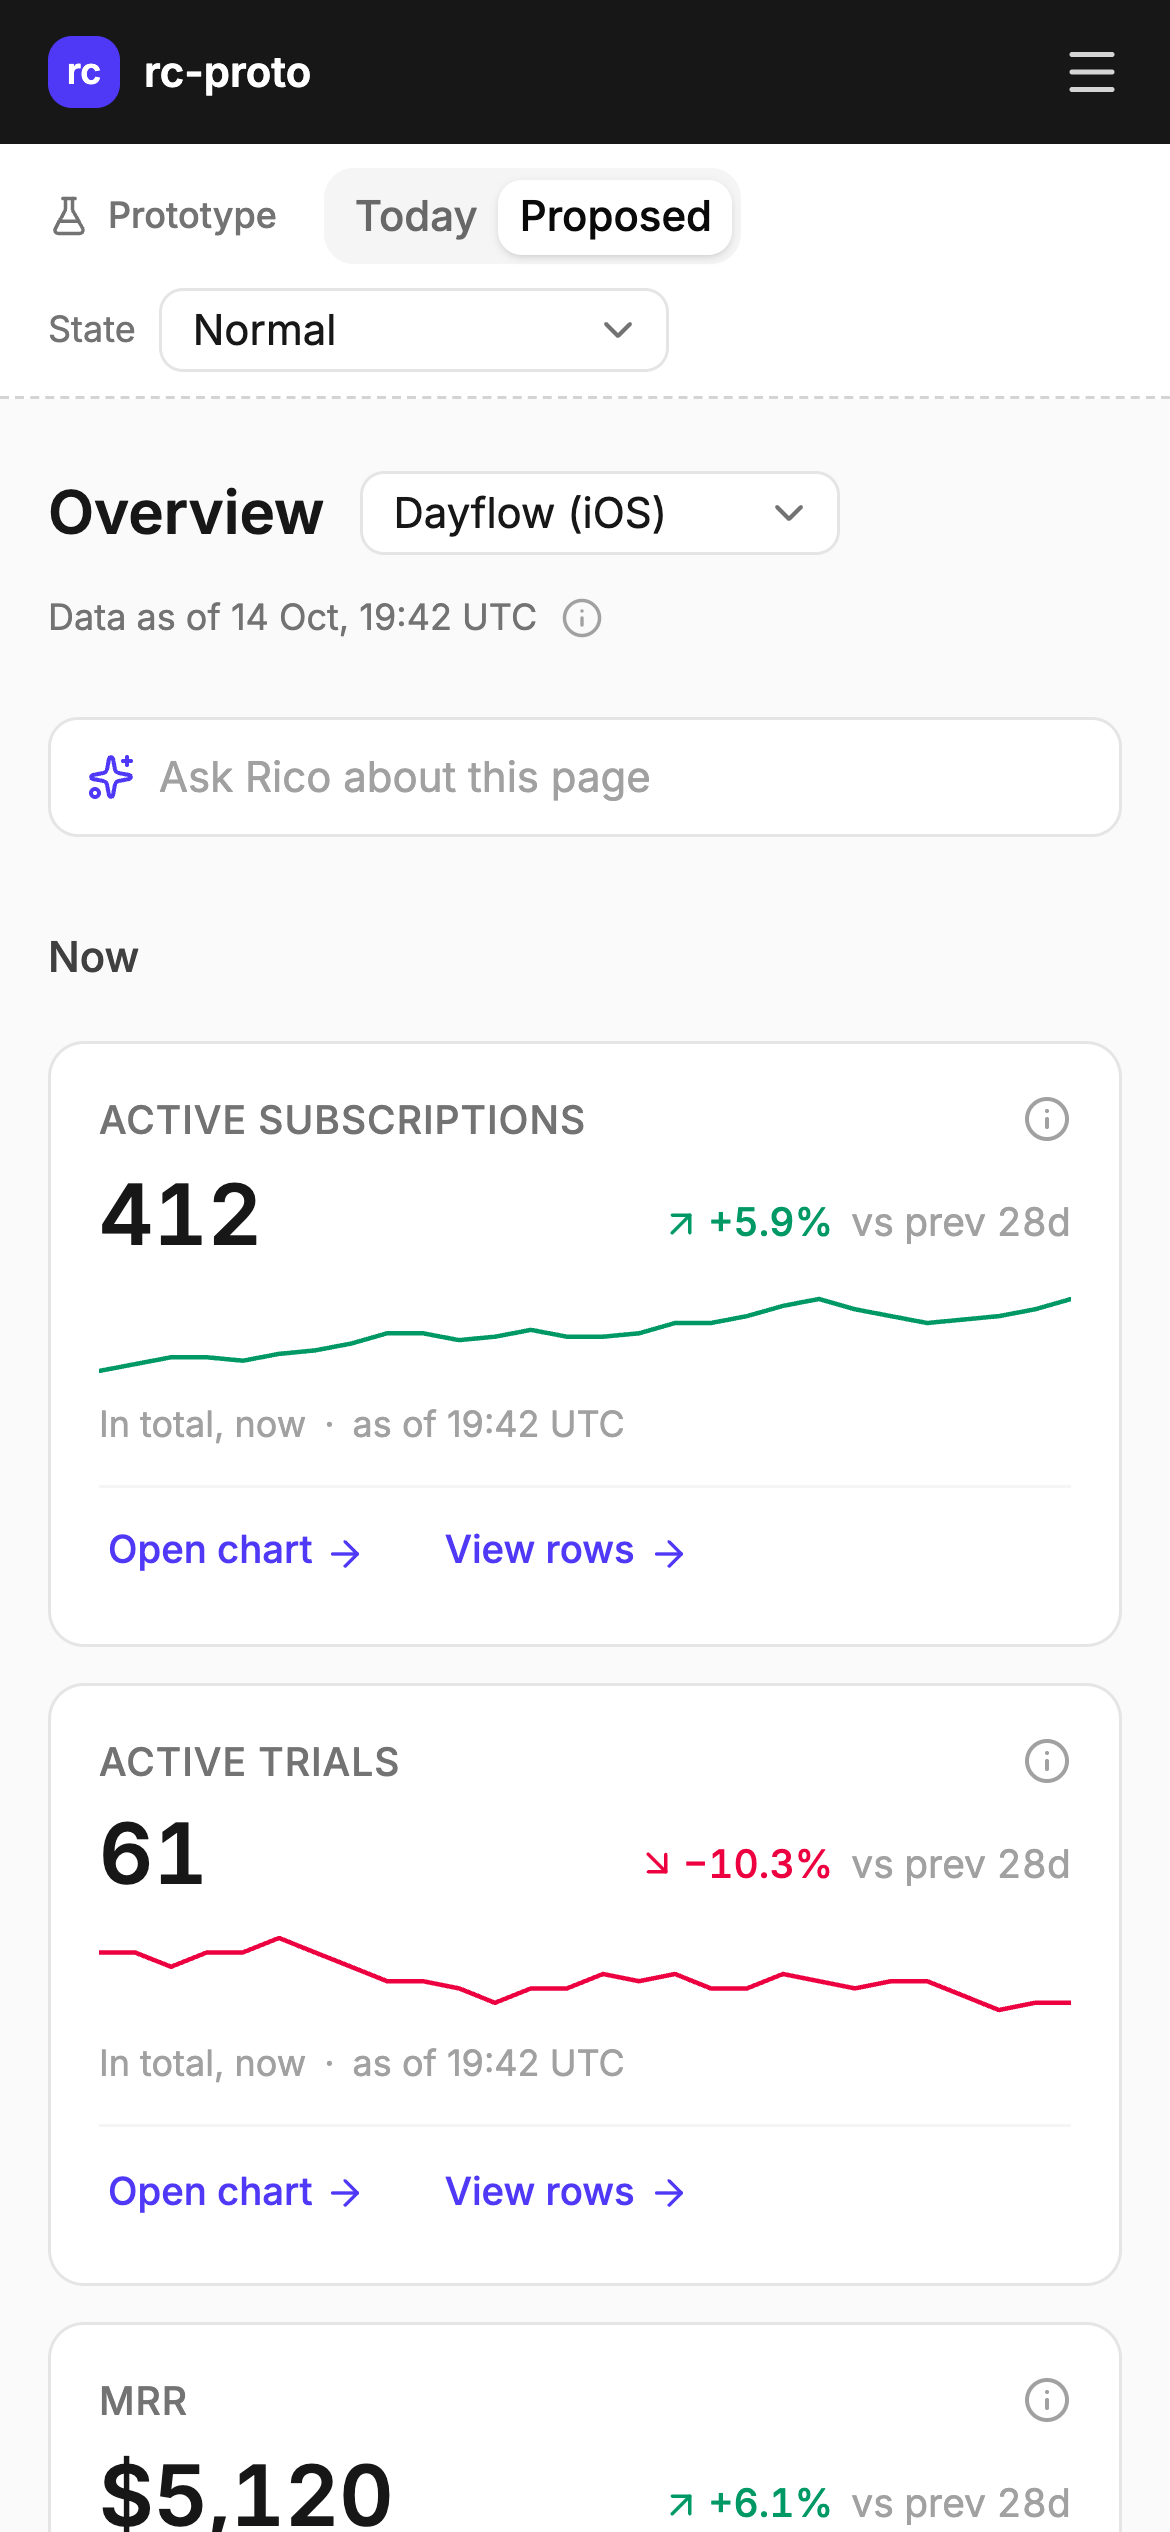
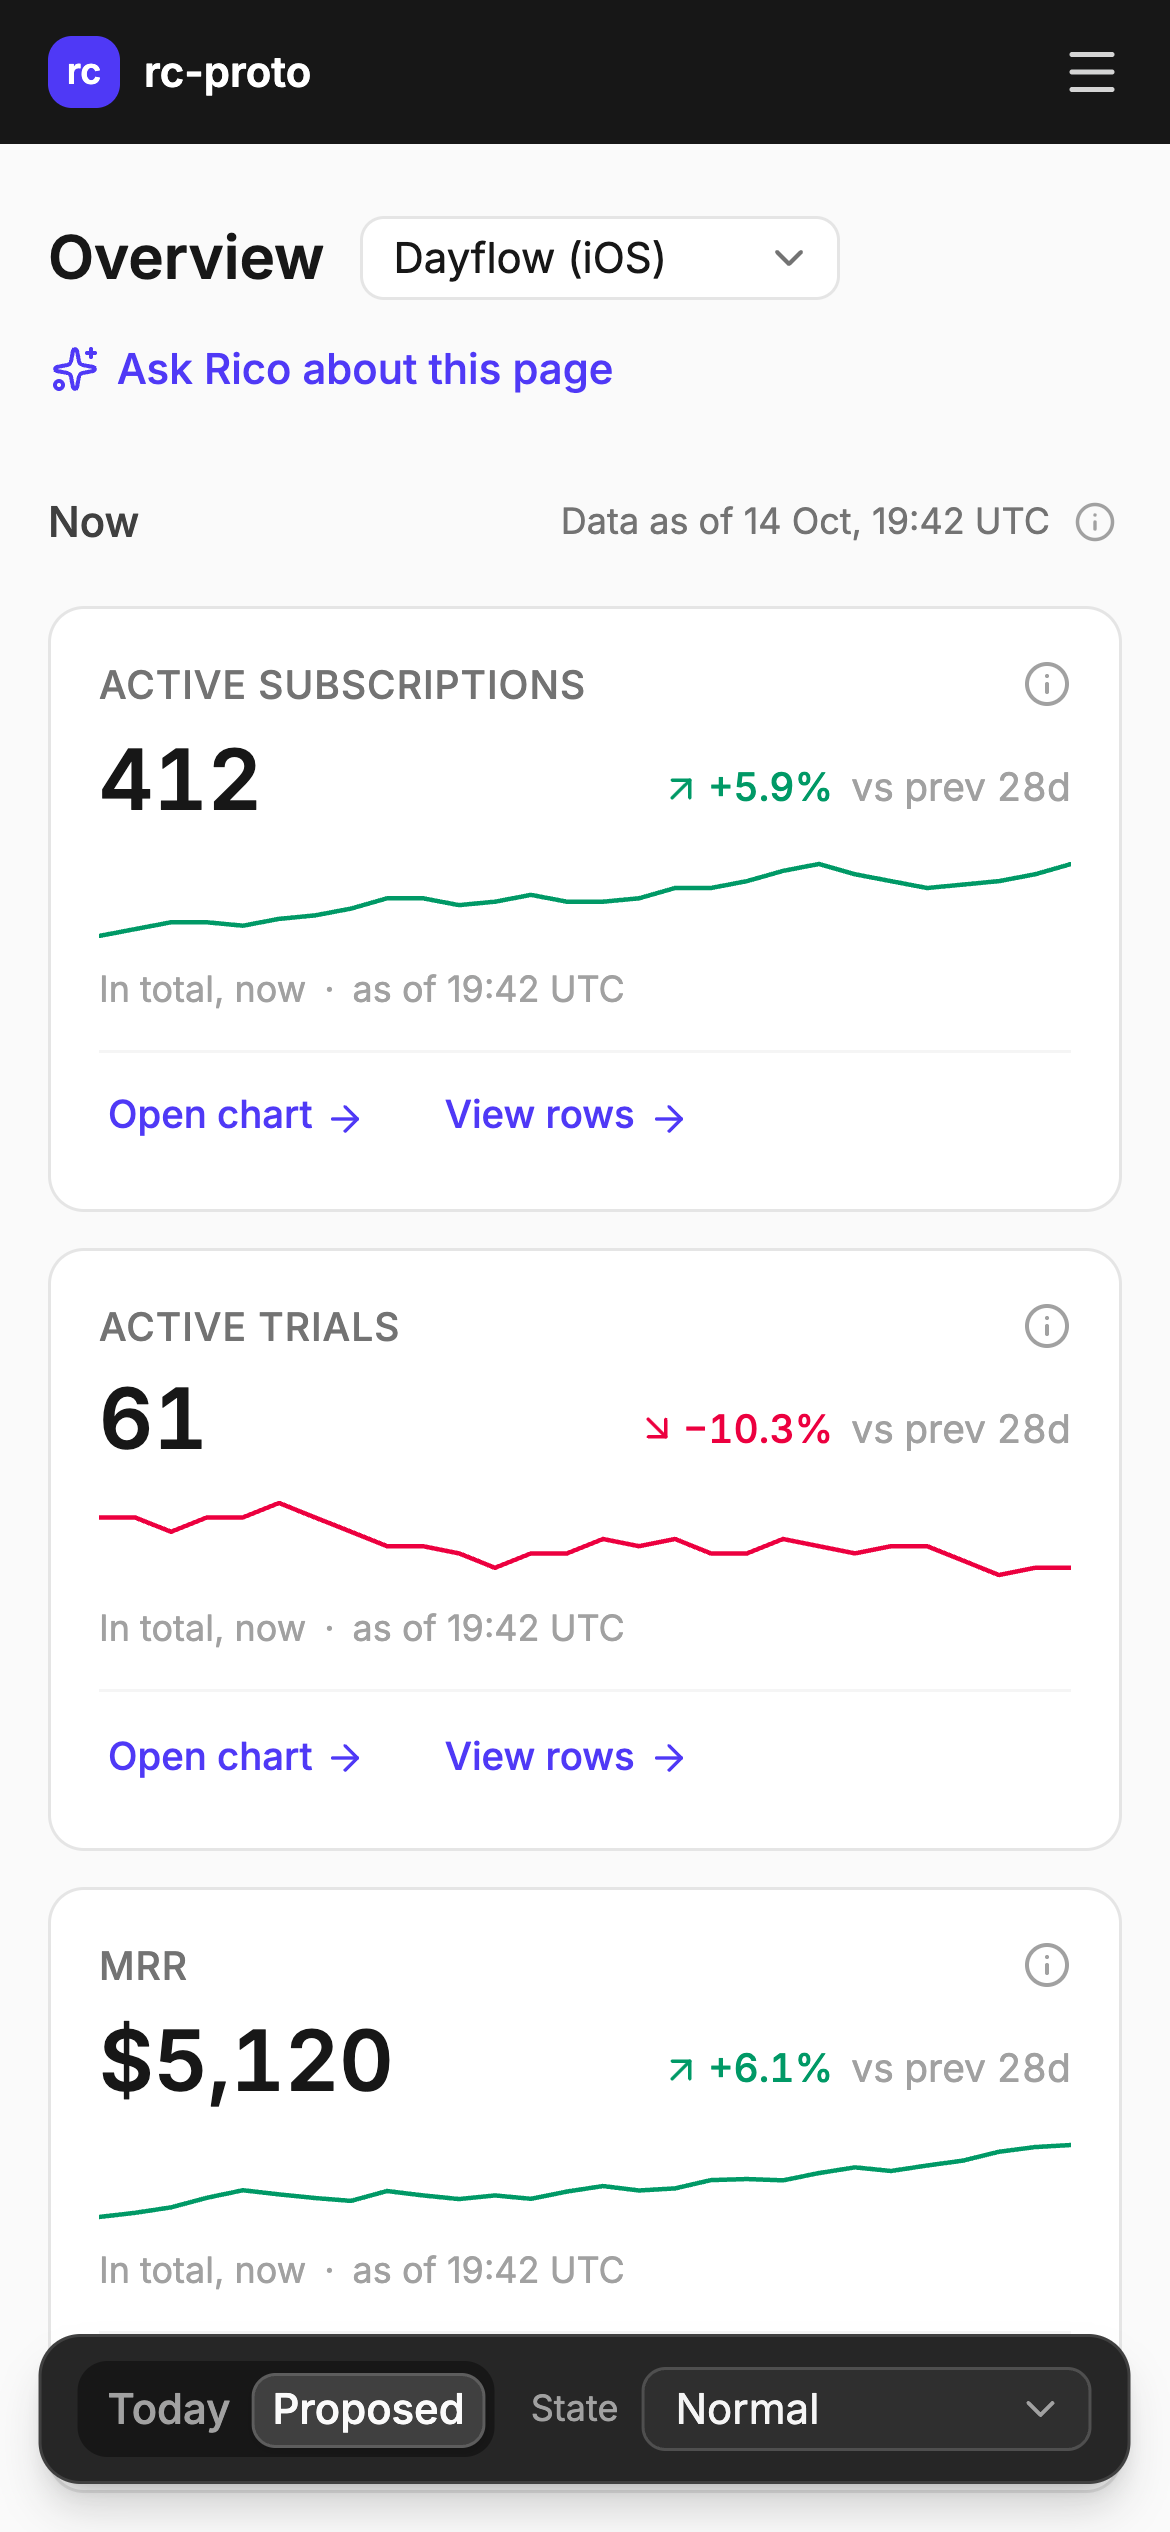
Ask Rico as a header link, data cutoff on the Now row, prototype controls as a floating dock

diff --git a/src/App.tsx b/src/App.tsx
@@ -1,5 +1,6 @@
 import { useState } from "react";
-import { FlaskConical, Info } from "lucide-react";
+import { FlaskConical, Info, Sparkles } from "lucide-react";
+import { Button } from "@/components/ui/button";
 import normalData from "@/data/normal.json";
 import lowVolumeData from "@/data/low_volume.json";
 import newProjectData from "@/data/new_project.json";
@@ -12,7 +13,7 @@ import { Tooltip, TooltipContent, TooltipProvider, TooltipTrigger } from "@/comp
 import { Sidebar, TopBar } from "@/components/Shell";
 import { MetricCard, PlainCard } from "@/components/MetricCard";
 import { DesignRules, RecentTransactions, RicoBar, SectionTitle, SetupChecklist, WhatChanged } from "@/components/Sections";
-import { RicoDrawer, RicoInput, SetupDrawer } from "@/components/Drawers";
+import { RicoDrawer, SetupDrawer } from "@/components/Drawers";
 import { ChartModal, ExplainerModal, NotOnPageModal, RowsModal } from "@/components/Modals";
 import { dateTimeUtc, periodLabel } from "@/lib/format";
 import type { CardData, ChartTarget, Overview, Preset, StateKey, View } from "@/types";
@@ -73,27 +74,7 @@ export default function App() {
         <div className="flex min-w-0 flex-1 flex-col">
           <TopBar />
 
-          {/* Prototype controls: not part of the product UI. */}
-          <div className="flex flex-wrap items-center gap-x-4 gap-y-2 border-b border-dashed border-neutral-300 bg-white px-4 py-2 md:px-8">
-            <span className="flex items-center gap-1.5 text-xs font-medium text-neutral-500"><FlaskConical className="size-3.5" /> Prototype</span>
-            <Tabs value={view} onValueChange={(v) => setView(v as View)}>
-              <TabsList>
-                <TabsTrigger value="today">Today</TabsTrigger>
-                <TabsTrigger value="proposed">Proposed</TabsTrigger>
-              </TabsList>
-            </Tabs>
-            <div className="flex items-center gap-2">
-              <span className="text-xs text-neutral-500">State</span>
-              <Select items={STATES} value={stateKey} onValueChange={(v) => setStateKey(v as StateKey)}>
-                <SelectTrigger size="sm" className="w-[170px] bg-white"><SelectValue /></SelectTrigger>
-                <SelectContent>
-                  {Object.entries(STATES).map(([k, label]) => <SelectItem key={k} value={k}>{label}</SelectItem>)}
-                </SelectContent>
-              </Select>
-            </div>
-          </div>
-
-          <main className="mx-auto flex w-full max-w-[1200px] flex-col gap-6 px-4 py-6 md:px-8">
+          <main className="mx-auto flex w-full max-w-[1200px] flex-col gap-6 px-4 pt-6 pb-24 md:px-8">
             <header className="flex flex-wrap items-center justify-between gap-3">
               <div className="flex flex-wrap items-center gap-3">
                 <h1 className="text-xl font-semibold">Overview</h1>
@@ -111,17 +92,9 @@ export default function App() {
                 </Select>
               </div>
               {view === "proposed" && (
-                <div className="flex items-center gap-1.5 text-xs text-neutral-500">
-                  Data as of {dateTimeUtc(data.as_of)}
-                  <Popover>
-                    <PopoverTrigger aria-label="About the data cutoff" className="rounded p-0.5 text-neutral-400 hover:text-neutral-700">
-                      <Info className="size-3.5" />
-                    </PopoverTrigger>
-                    <PopoverContent align="end" className="w-64 p-3 text-xs text-neutral-700">
-                      All cards on this page use this cutoff. Cached cards show their own time.
-                    </PopoverContent>
-                  </Popover>
-                </div>
+                <Button variant="link" className="h-auto gap-1.5 p-0 text-indigo-600" onClick={() => setRicoOpen(true)}>
+                  <Sparkles /> Ask Rico about this page
+                </Button>
               )}
             </header>
 
@@ -137,19 +110,30 @@ export default function App() {
               </>
             ) : (
               <>
-                <RicoInput value={ricoDraft} onChange={setRicoDraft} onOpen={() => setRicoOpen(true)} />
-
                 {data.setup && <SetupChecklist steps={setupSteps} onOpenStep={(i) => { setSetupIndex(i); setSetupOpen(true); }} />}
 
                 <section className="flex flex-col gap-3">
-                  <div className="flex h-8 items-center justify-between gap-3">
+                  <div className="flex min-h-8 items-center justify-between gap-3">
                     <SectionTitle>Now</SectionTitle>
-                    {sample && (
-                      <label className="flex items-center gap-2 text-xs text-neutral-600">
-                        <Switch checked={showSample} onCheckedChange={setShowSample} />
-                        Show sample data
-                      </label>
-                    )}
+                    <div className="flex flex-wrap items-center justify-end gap-x-4 gap-y-1">
+                      {sample && (
+                        <label className="flex items-center gap-2 text-xs text-neutral-600">
+                          <Switch checked={showSample} onCheckedChange={setShowSample} />
+                          Show sample data
+                        </label>
+                      )}
+                      <div className="flex items-center gap-1.5 text-xs text-neutral-500">
+                        Data as of {dateTimeUtc(data.as_of)}
+                        <Popover>
+                          <PopoverTrigger aria-label="About the data cutoff" className="rounded p-0.5 text-neutral-400 hover:text-neutral-700">
+                            <Info className="size-3.5" />
+                          </PopoverTrigger>
+                          <PopoverContent align="end" className="w-64 p-3 text-xs text-neutral-700">
+                            All cards on this page use this cutoff. Cached cards show their own time.
+                          </PopoverContent>
+                        </Popover>
+                      </div>
+                    </div>
                   </div>
                   <div className="grid grid-cols-1 gap-3 md:grid-cols-3">{cardsFor("now")}</div>
                 </section>
@@ -180,6 +164,26 @@ export default function App() {
               </>
             )}
           </main>
+        </div>
+      </div>
+
+      {/* Prototype controls: not part of the product UI. A floating dock, dark tokens via .dark. */}
+      <div className="dark fixed bottom-4 left-1/2 z-40 flex -translate-x-1/2 items-center gap-3 rounded-xl border border-neutral-700 bg-neutral-800 px-3 py-2 text-neutral-100 shadow-lg shadow-neutral-900/20 md:left-[calc(50%+110px)]">
+        <span className="hidden items-center gap-1.5 text-xs font-medium text-neutral-400 sm:flex"><FlaskConical className="size-3.5" /> Prototype</span>
+        <Tabs value={view} onValueChange={(v) => setView(v as View)}>
+          <TabsList className="bg-neutral-900">
+            <TabsTrigger value="today" className="dark:data-active:bg-neutral-700">Today</TabsTrigger>
+            <TabsTrigger value="proposed" className="dark:data-active:bg-neutral-700">Proposed</TabsTrigger>
+          </TabsList>
+        </Tabs>
+        <div className="flex items-center gap-2">
+          <span className="text-xs text-neutral-400">State</span>
+          <Select items={STATES} value={stateKey} onValueChange={(v) => setStateKey(v as StateKey)}>
+            <SelectTrigger size="sm" className="w-[150px] sm:w-[170px]"><SelectValue /></SelectTrigger>
+            <SelectContent>
+              {Object.entries(STATES).map(([k, label]) => <SelectItem key={k} value={k}>{label}</SelectItem>)}
+            </SelectContent>
+          </Select>
         </div>
       </div>
 

diff --git a/src/components/Drawers.tsx b/src/components/Drawers.tsx
@@ -21,23 +21,6 @@ export function SideDrawer({
 
 /* ---------- Rico ---------- */
 
-export function RicoInput({ value, onChange, onOpen }: { value: string; onChange: (v: string) => void; onOpen: () => void }) {
-  return (
-    <div className="flex h-10 items-center gap-2 rounded-lg border border-neutral-200 bg-white px-3 focus-within:border-indigo-300">
-      <Sparkles className="size-4 shrink-0 text-indigo-600" />
-      <input
-        value={value}
-        onChange={(e) => onChange(e.target.value)}
-        onFocus={onOpen}
-        onClick={onOpen}
-        placeholder="Ask Rico about this page"
-        aria-label="Ask Rico about this page"
-        className="min-w-0 flex-1 bg-transparent text-sm text-neutral-900 outline-none placeholder:text-neutral-400"
-      />
-    </div>
-  );
-}
-
 export const RICO_CHIPS = ["Why did MRR go up?", "Is this number right?", "What should I look at today?"];
 
 type Message = { from: "me" | "rico"; text: string; chart?: { label: string; metric: string } };

diff --git a/README.md b/README.md
@@ -20,16 +20,17 @@ Push to `main` deploys to Netlify.
 
 ## What's in it
 
-- **Prototype bar** (dashed, above the page): Today / Proposed tabs and the State select
-  (Normal, Below volume gate, New project). State only swaps the JSON file.
-- **Proposed**: header with app selector and one "Data as of" cutoff; **Now** row
+- **Prototype dock** (dark, floating at the bottom): Today / Proposed tabs and the State
+  select (Normal, Below volume gate, New project). State only swaps the JSON file.
+- **Proposed**: header with app selector and an "Ask Rico about this page" link on the right;
+  **Now** row with the one "Data as of" cutoff on the right of its title
   (Active subscriptions, Active trials, MRR); **period** row (Revenue, New customers,
   Active customers) with the 7d / 28d / 90d picker; **What changed** strip (max 3, tagged
   Business or Definition / data); Recent transactions (collapsed); footer with the 3 design
   rules and "Not on this page, and why".
-- **Ask Rico** (round 2): one 40px input under the header, above Now, in every state. Click
-  or focus opens a 420px right drawer (full width on a phone) with the typed text carried
-  over, 3 prompt chips, and a mocked chat: replies after 600ms, keyed on "mrr", "trial",
+- **Ask Rico**: a text link in the header, in every state (round 3; round 2 had a 40px input
+  under the header). It opens a 420px right drawer (full width on a phone) with 3 prompt
+  chips and a mocked chat: replies after 600ms, keyed on "mrr", "trial",
   "right/correct/trust", else a default. MRR and trial replies have a button to the chart modal.
 - **New project** (round 2): the setup card lists 6 tasks (2 of 6 done); each opens the same
   drawer with numbered steps, a code snippet for the SDK step, "Open <flow>" (toast stub) and
@@ -68,9 +69,9 @@ Stack: Vite + React 19 + TypeScript, Tailwind v4, shadcn/ui on **Base UI** primi
 - **New project**: sample data is opt-in since round 2 (empty cards by default). Empty
   cards hide the window/freshness line and the chart/rows links too, so they show only
   label, dash and "No data yet". The first incomplete setup task is highlighted.
-- **Rico drawer closes without returning focus** to the page input, because focusing that
-  input opens the drawer again.
-- **Order in New project**: Rico input first (directly under the header), then the setup card.
+- **Rico drawer closes without returning focus** (kept from round 2, when focusing the page
+  input reopened the drawer).
+- **New project Now row**: "Show sample data" switch sits left of "Data as of".
 - **Below volume gate**: deltas and sparklines hidden with "Not enough data yet".
 - **"Business" tag** is indigo (the page's one accent) rather than a separate blue.
 - **Dialog backdrop blur removed** so the What changed strip stays readable behind the
